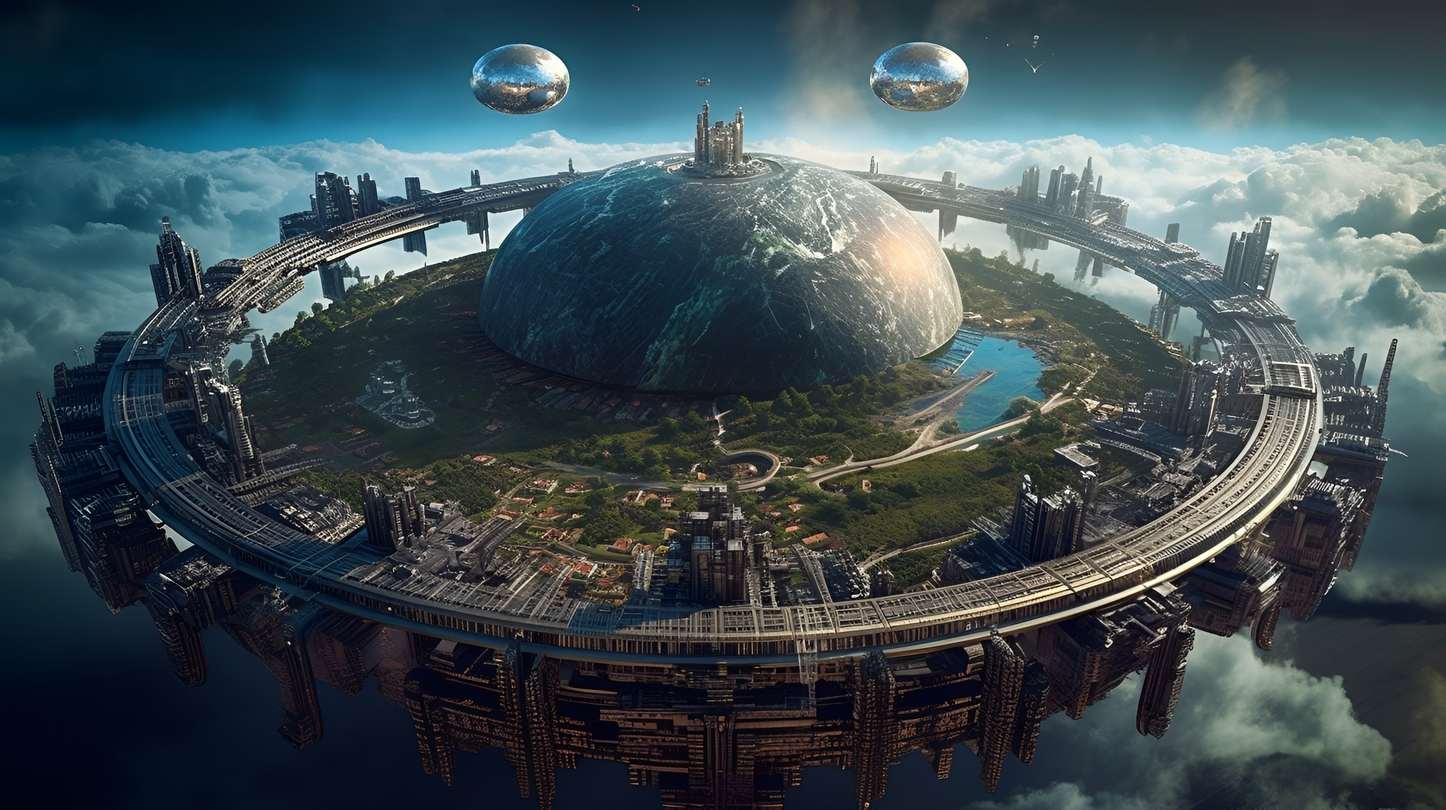
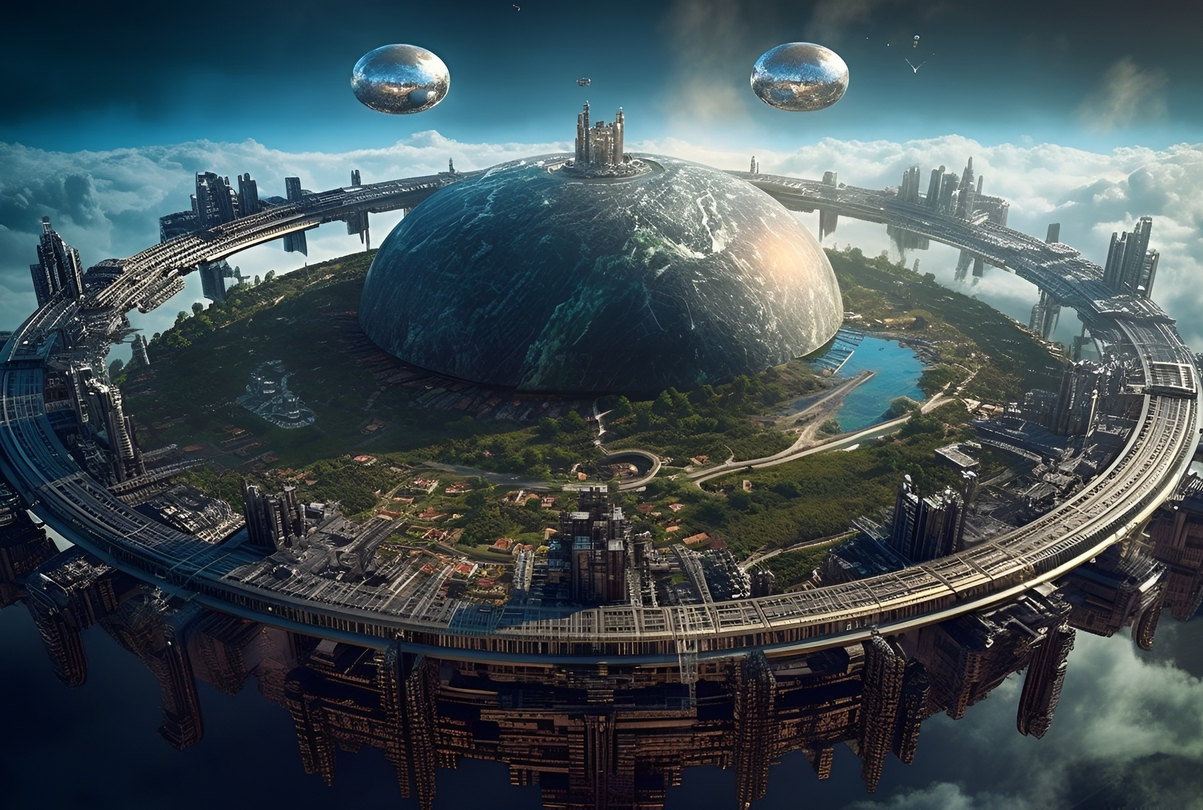
CV added link test commit for successful deployment

diff --git a/pages/cv.html b/pages/cv.html
@@ -11,7 +11,9 @@ external_url:
 <!-- <a href="https://tejalbarnwal.github.io/pdfs/tejalbarnwal_resume.pdf">
     <img src="../pdfs/pdf.svg" alt="CV" title="Dowload CV" height="30px"> &nbsp;
     <span style="color:blue; font-size:1.25em">Curriculum Vitae </span>
+    https://drive.google.com/file/d/1-lLNQAUHq-Zso_PkHgD5RguQl78b0x53/view?usp=sharing
+    https://docs.google.com/gview?url=https://tejalbarnwal.github.io/pdfs/CV.pdf&embedded=true
 </a> -->
 
-<iframe src="https://docs.google.com/gview?url=https://drive.google.com/file/d/1-lLNQAUHq-Zso_PkHgD5RguQl78b0x53/view?usp=sharing" width="75%" height="1000px"></iframe>
+<iframe src="https://drive.google.com/file/d/1-lLNQAUHq-Zso_PkHgD5RguQl78b0x53/view?usp=sharing" width="75%" height="1000px"></iframe>
 </div>

diff --git a/pages/about.md b/pages/about.md
@@ -12,7 +12,7 @@ weight: 1
 <div class="row">
 
   <div class="column">
-  <img class="profilepic" style="float: middle; border-radius: 50%;" src="../imgs/NarenFormal.jpg" alt="Kitten" title="A cute kitten" width="300" height="200" />
+  <img class="profilepic" style="float: center; border-radius: 50%;" src="../imgs/NarenFormal.jpg" alt="Kitten" title="A cute kitten" width="300" height="200" />
   </div>
 
 <div class="column" style="width: 88%; margin-left: 10px">
@@ -62,7 +62,6 @@ weight: 1
     <b>Resilience</b>: As a student, I exhibited grit by persevering through disappointment in the JEE-Advanced exam and re-attempting it with passion and confidence, focusing on delivering my utmost effort and improving my skills through practical implications to impact society's ground reality. 
   </p>
   <p style="font-size: 18px">
-  
     <b>Curiosity</b>: I enjoy exploring the inner workings and technological innovations that power everyday devices as a pastime.
   </p>
   <p style="font-size: 18px">
